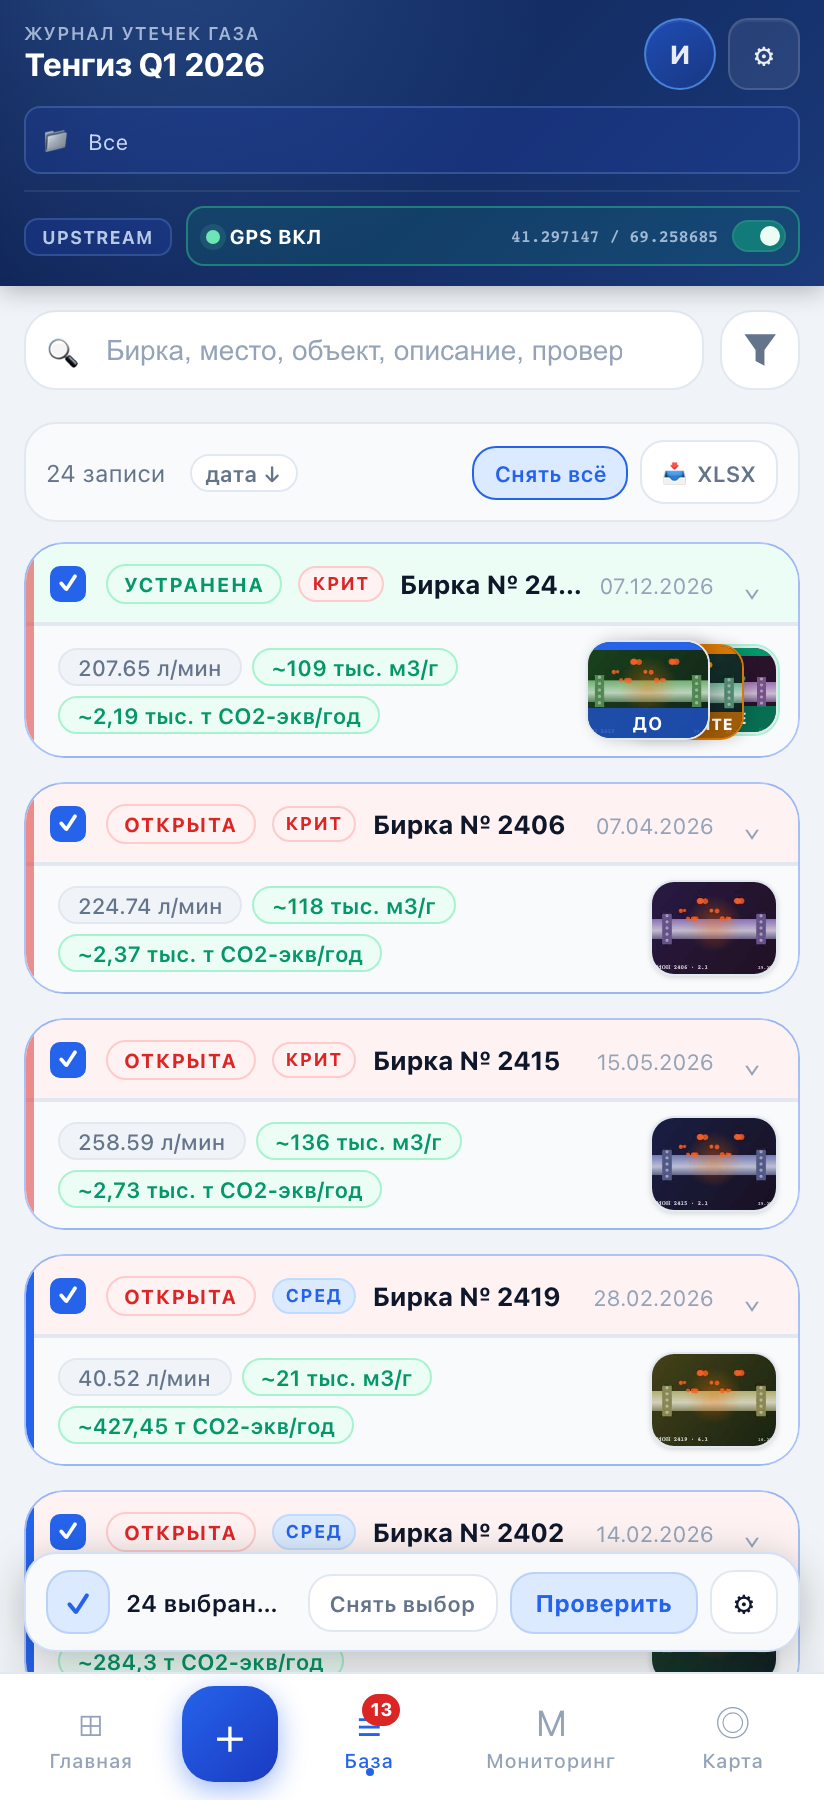
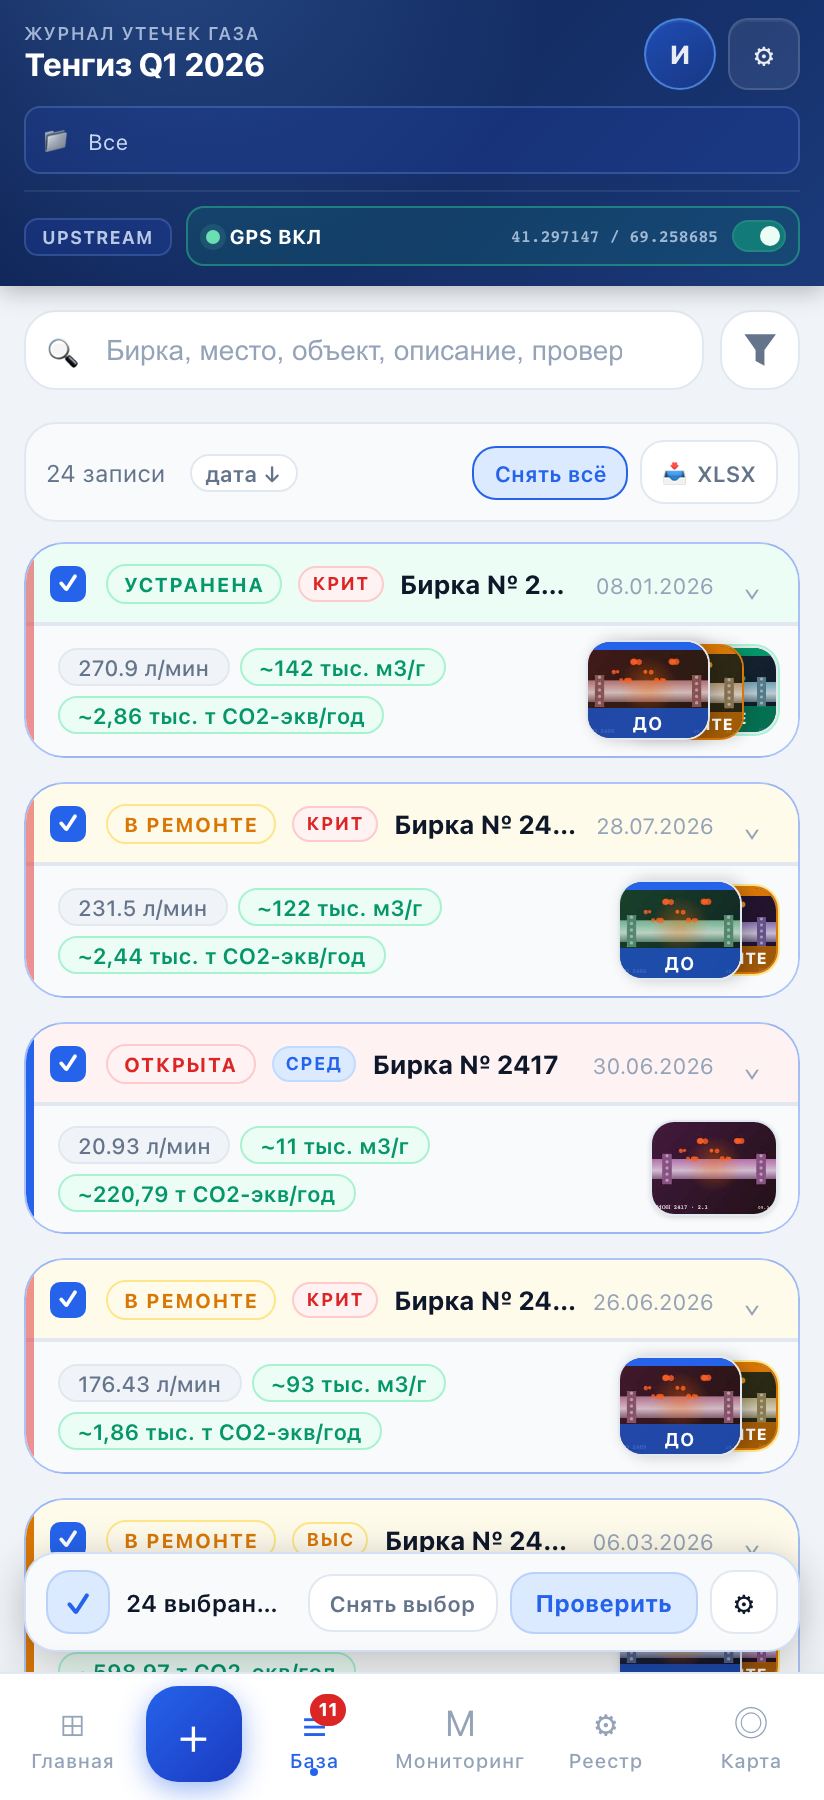
docs: скриншоты реестра в скрипте и в руководстве
Скрипт проходил приложение по номерам кнопок нижней навигации, и с
появлением «Реестра» они съехали: `nth(4)` открывал реестр вместо карты, а
снимки карты и всего, что за ней, делались не с того экрана. Вкладки
теперь ищутся по названию — оно переживёт и следующую.

Добавлен шаг съёмки реестра: четыре карточки заводятся через ту же форму,
что и у пользователя, потом осмотр списком и один свайпом — без состояний
на карточках нечего показывать, а в фильтре нечего отбирать. Дальше
список, фильтры, подробная карточка, история с двумя записями, схемы и
карта на базе железа.

Первая попытка сажала карточки прямо в IndexedDB через page.evaluate и
повисала навсегда: у evaluate нет таймаута, а исключение внутри
обработчика IDB не доходит ни до resolve, ни до reject. Через форму одна
карточка занимает секунду.

Снимки перенумерованы под порядок глав: реестр занял 32–38, карта,
настройки и тема сдвинулись на 39–48. Прогон целиком — 48 из 48 без
единой ошибки, все ссылки в руководстве проверены.

diff --git a/docs/MANUAL.md b/docs/MANUAL.md
@@ -342,6 +342,8 @@ GPS и ждёт первого фикса до 15 секунд. Дождалис
 
 Открывается кнопкой **«Реестр»** в нижней навигации.
 
+<img src="manual/img/32-registry-list.png" width="360" alt="Реестр компонентов: список карточек">
+
 > Вкладка есть только у проектов типа **Upstream**. У остальных типов реестр не
 > объявлен, и кнопки в навигации не будет.
 
@@ -365,6 +367,8 @@ GPS и ждёт первого фикса до 15 секунд. Дождалис
 руки, — по совпавшим номерам и по кругу **«Рядом со мной»**. При включённом
 круге на карточке появляется значок с расстоянием до железа.
 
+<img src="manual/img/33-registry-filters.png" width="360" alt="Панель фильтров реестра">
+
 **Полоса результатов** показывает, сколько компонентов показано, меняет порядок
 (по номеру ↑ / ↓), позволяет выбрать все показанные и выгрузить инвентаризацию
 кнопкой **XLSX**.
@@ -379,6 +383,8 @@ GPS и ждёт первого фикса до 15 секунд. Дождалис
 **«Добавить компонент»** открывает форму из четырёх шагов, устроенную как форма
 утечки: первый шаг спрашивает то, что видно с места, дальше идут паспортные
 данные с таблички, последним — фотография.
+
+<img src="manual/img/34-registry-card.png" width="360" alt="Форма заведения компонента, первый шаг">
 
 Обязательны только два поля: **индивидуальный номер** (цифры, которые
 присваивает обходчик) и **фотография**. Всё остальное можно оставить пустым —
@@ -406,10 +412,14 @@ GPS и ждёт первого фикса до 15 секунд. Дождалис
 Открывается нажатием на карточку. Вкладки: **Параметры**, **Фото**,
 **Координаты**, **История** — те же, что у утечки.
 
+<img src="manual/img/35-registry-details.png" width="360" alt="Подробная карточка компонента">
+
 **«Редактировать»** правит карточку прямо здесь, не открывая форму заведения
 заново. Координаты правятся только тут. **История** показывает, кто и когда
 заводил, правил и осматривал, и что именно изменилось: «Номер на схеме:
 ЗД1 → ЗД99». Удаление спрятано за значком корзины и требует подтверждения.
+
+<img src="manual/img/36-registry-history.png" width="360" alt="История компонента: заведение и осмотр">
 
 > Ни одна запись в реестре не делается без имени в профиле. Реестр, который
 > никто не подписывает, — это список утверждений, за которыми не стоит человек.
@@ -419,6 +429,8 @@ GPS и ждёт первого фикса до 15 секунд. Дождалис
 Вкладка **«Схемы»** хранит технологические чертежи проекта: их загружают
 заранее или добавляют по ходу работы. Сверху поиск по названию и месту, под ним
 кнопка **«Добавить схему»**.
+
+<img src="manual/img/37-schemas.png" width="360" alt="Вкладка схем со списком чертежей">
 
 - **Изображения** открываются встроенным просмотрщиком: масштаб пальцами,
   двойное нажатие — вписать, кнопка «Закрыть».
@@ -430,6 +442,8 @@ GPS и ждёт первого фикса до 15 секунд. Дождалис
 
 ### Компоненты на карте
 
+<img src="manual/img/38-map-components.png" width="360" alt="Карта на базе компонентов">
+
 На карте есть переключатель баз — пилюля в правом верхнем углу: **«Утечки»** или
 **«Железо»**. Карта показывает по одной базе за раз; на базе железа фильтры по
 статусу, приоритету и обходу пропадают, потому что к оборудованию они не
@@ -439,7 +453,7 @@ GPS и ждёт первого фикса до 15 секунд. Дождалис
 
 ## 11. Карта
 
-<img src="manual/img/32-map.png" width="360" alt="Карта с маркерами утечек">
+<img src="manual/img/39-map.png" width="360" alt="Карта с маркерами утечек">
 
 Маркеры окрашены по статусу, рядом — номер бирки. Близкие маркеры собираются в
 кластеры с числом записей; нажатие раскрывает их. Нажатие на маркер показывает
@@ -449,7 +463,7 @@ GPS и ждёт первого фикса до 15 секунд. Дождалис
 мониторингу, фильтр по статусу, фильтр по приоритету, утечки рядом и скачивание
 тайлов текущей области в офлайн-кэш.
 
-<img src="manual/img/33-map-filters.png" width="360" alt="Фильтры карты">
+<img src="manual/img/40-map-filters.png" width="360" alt="Фильтры карты">
 
 Кнопка **KML** внизу слева выгружает видимые записи в KML для Google Earth и ГИС.
 
@@ -473,7 +487,7 @@ GPS и ждёт первого фикса до 15 секунд. Дождалис
 
 ### Проекты
 
-<img src="manual/img/34-settings-projects.png" width="360" alt="Настройки: проекты">
+<img src="manual/img/41-settings-projects.png" width="360" alt="Настройки: проекты">
 
 Список проектов: переключение, переименование, удаление, создание нового.
 Активный проект отмечен. Переключение проекта сбрасывает незаконченную форму
@@ -485,13 +499,13 @@ GPS и ждёт первого фикса до 15 секунд. Дождалис
 
 ### Поля формы и Excel
 
-<img src="manual/img/35-settings-fields.png" width="360" alt="Настройки: поля формы и Excel">
+<img src="manual/img/42-settings-fields.png" width="360" alt="Настройки: поля формы и Excel">
 
 **«Настроить поля»** — скрытие неиспользуемых полей: они исчезают и из формы, и
 из столбцов экспорта. Поля «№», «Дата обнаружения», «Статус» и «Дата устранения»
 системные и скрыть их нельзя.
 
-<img src="manual/img/39-field-visibility.png" width="360" alt="Окно настройки видимости полей">
+<img src="manual/img/46-field-visibility.png" width="360" alt="Окно настройки видимости полей">
 
 **Журнал мониторинга в Excel** — два режима:
 
@@ -500,21 +514,21 @@ GPS и ждёт первого фикса до 15 секунд. Дождалис
 
 ### Требования к фото
 
-<img src="manual/img/36-settings-photos.png" width="360" alt="Настройки: требования к фото">
+<img src="manual/img/43-settings-photos.png" width="360" alt="Настройки: требования к фото">
 
 Отдельно для добавления утечки, для мониторинга и для карточки компонента: фото
 обязательно или необязательно.
 
 ### Резервная копия
 
-<img src="manual/img/37-settings-backup.png" width="360" alt="Настройки: резервная копия">
+<img src="manual/img/44-settings-backup.png" width="360" alt="Настройки: резервная копия">
 
 Экспорт ZIP и импорт файла любого из трёх форматов — см.
 [раздел 13](#13-перенос-данных-zip-excel-qr).
 
 ### Проверка данных
 
-<img src="manual/img/38-settings-bottom.png" width="360" alt="Настройки: проверка данных, кэш карты и опасная зона">
+<img src="manual/img/45-settings-bottom.png" width="360" alt="Настройки: проверка данных, кэш карты и опасная зона">
 
 Кнопка «Проверить» ищет в проекте проблемы: записи без фото (до / ремонта /
 после), проверки мониторинга без фото, битые ссылки на фотографии, записи без
@@ -621,8 +635,8 @@ QR-сеанс закрывается после первой успешной п
 В настройках, блок «Внешний вид»: переключатель тёмной/светлой темы и кнопка
 языка (RU / EN). Оба выбора сохраняются между запусками.
 
-<img src="manual/img/40-dark-theme.png" width="360" alt="Тёмная тема">
-<img src="manual/img/41-english.png" width="360" alt="Английский интерфейс">
+<img src="manual/img/47-dark-theme.png" width="360" alt="Тёмная тема">
+<img src="manual/img/48-english.png" width="360" alt="Английский интерфейс">
 
 ---
 
